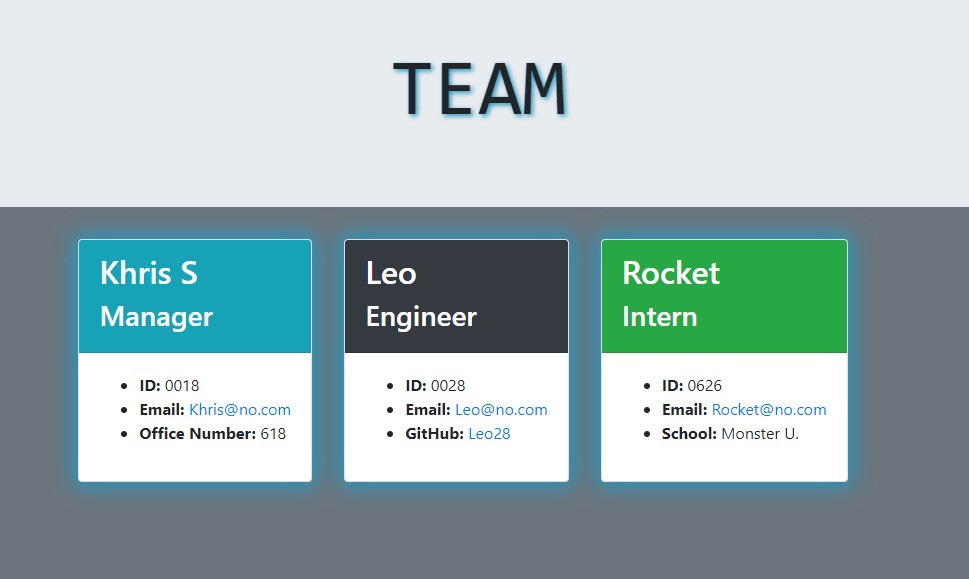
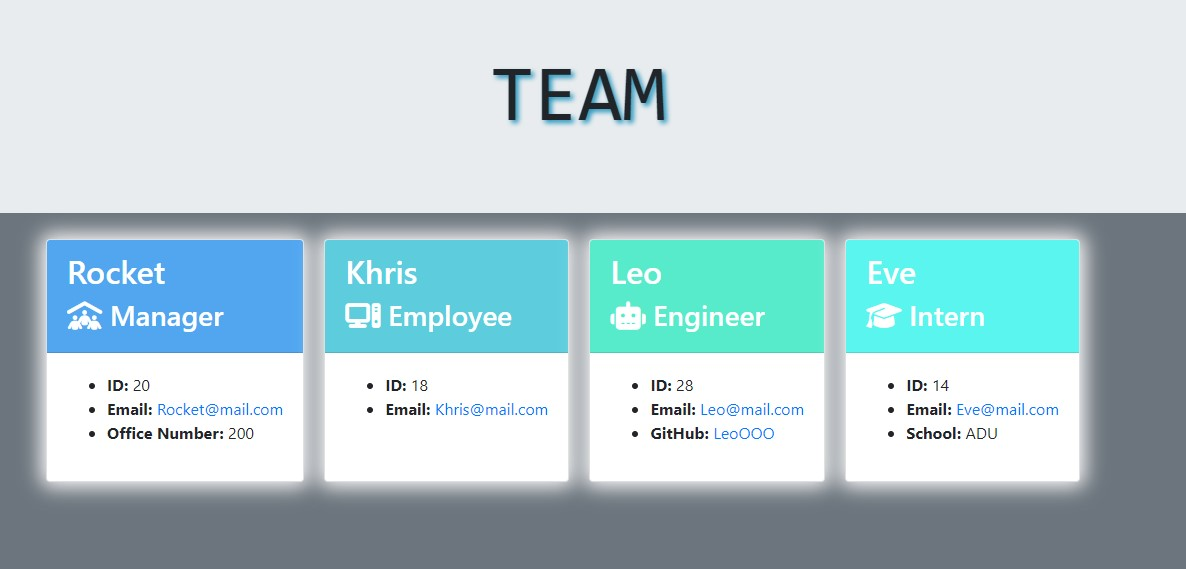
additional fixes

diff --git a/main/dist/team.html b/main/dist/team.html
@@ -23,82 +23,55 @@
                     
         <div class="card">
         <div class="card-header manager-color text-white">
-            <h2>a</h2>
+            <h2>Rocket</h2>
             <h3><i class="fa-solid fa-people-roof"></i> Manager</h3>
         </div>
         <div class="card-body">
             <ul>
-                <li><b>ID: </b>a</li>
-                <li><b>Email: </b><a href="mailto:a">a</a></li>
-                <li><b>Office Number: </b>a</li>
-            </ul>
-        </div>
-    </div>
-      
-        <div class="card">
-        <div class="card-header manager-color text-white">
-            <h2>a</h2>
-            <h3><i class="fa-solid fa-people-roof"></i> Manager</h3>
-        </div>
-        <div class="card-body">
-            <ul>
-                <li><b>ID: </b>a</li>
-                <li><b>Email: </b><a href="mailto:a">a</a></li>
-                <li><b>Office Number: </b>a</li>
+                <li><b>ID: </b>20</li>
+                <li><b>Email: </b><a href="mailto:Rocket@mail.com">Rocket@mail.com</a></li>
+                <li><b>Office Number: </b>200</li>
             </ul>
         </div>
     </div>
       
         <div class="card">
         <div class="card-header employee-color text-white">
-            <h2>a</h2>
+            <h2>Khris</h2>
             <h3><i class="fa-solid fa-computer"></i> Employee</h3>
         </div>
         <div class="card-body">
             <ul>
-                <li><b>ID: </b>a</li>
-                <li><b>Email: </b><a href="mailto:a">a</a></li>
-            </ul>
-        </div>
-    </div>
-      
-        <div class="card">
-        <div class="card-header employee-color text-white">
-            <h2>a</h2>
-            <h3><i class="fa-solid fa-computer"></i> Employee</h3>
-        </div>
-        <div class="card-body">
-            <ul>
-                <li><b>ID: </b>a</li>
-                <li><b>Email: </b><a href="mailto:a">a</a></li>
+                <li><b>ID: </b>18</li>
+                <li><b>Email: </b><a href="mailto:Khris@mail.com">Khris@mail.com</a></li>
             </ul>
         </div>
     </div>
       
         <div class="card">
         <div class="card-header engineer-color text-white">
-            <h2>a</h2>
+            <h2>Leo</h2>
             <h3><i class="fa-solid fa-robot"></i> Engineer</h3>
         </div>
         <div class="card-body">
             <ul>
-                <li><b>ID: </b>a</li>
-                <li><b>Email: </b><a href="mailto:a">a</a></li>
-                <li><b>GitHub: </b><a href="https://github.com/a">a</a></li>
+                <li><b>ID: </b>28</li>
+                <li><b>Email: </b><a href="mailto:Leo@mail.com">Leo@mail.com</a></li>
+                <li><b>GitHub: </b><a href="https://github.com/LeoOOO">LeoOOO</a></li>
             </ul>
         </div>
     </div>
       
         <div class="card">
         <div class="card-header intern-color text-white">
-            <h2>a</h2>
+            <h2>Eve</h2>
             <h3><i class="fa-solid fa-graduation-cap"></i> Intern</h3>
         </div>
         <div class="card-body">
             <ul>
-                <li><b>ID: </b> a</li>
-                <li><b>Email: </b><a href="mailto:a">a</a></li>
-                <li><b>School: </b> a</li>
+                <li><b>ID: </b> 14</li>
+                <li><b>Email: </b><a href="mailto:Eve@mail.com">Eve@mail.com</a></li>
+                <li><b>School: </b> ADU</li>
             </ul>
         </div>
      </div>

diff --git a/README.md b/README.md
@@ -10,6 +10,7 @@ This is an application that helps the user build a working team that includes Ma
 * [Installation](#installation)
 * [Usage](#usage)
 * [Demo](#demo)
+* [Testing](#testing)
 * [Sources](#sources)
 * [License](#license)
 * [Contact](#contact)
@@ -46,26 +47,33 @@ To use the application do the following:
   ![Screenshot of questions](./main/assets/Screenshot%202022-10-27%20182454.jpg)
 <br>
 
-### Demonstration of Deployed Site
+### Demonstration of Deployed Application
 <br>
  
   ![Screenshot of readme file](./main/assets/Screenshot%202022-10-27%20182323.jpg)
 
 <br><br>
 
+## Testing
+  For testing install 'npm i jest' on your terminal. Then type 'npm test' to run the tests.
+  
+![Screenshot of tests](./main/assets/Screenshot%202022-10-28%20163741.jpg)
+
  ## Sources
   
   - [Node.js 16.18.0 LTS](https://nodejs.org/en/)
   - [Inquirer 8.2.4](https://www.npmjs.com/package/inquirer/v/8.2.4)
   - [Bootstrap](https://getbootstrap.com/docs/4.6/getting-started/introduction/)
+  - [Jest](https://www.npmjs.com/package/jest)
 
 
  ## License
  [MIT](https://choosealicense.com/licenses/mit/)
 
 
- ## Links
- [Application Repo](https://github.com/KSoto18/My-Team-Builder)
+ ## Links 
+ - [Application Repo](https://github.com/KSoto18/My-Team-Builder)
+ - [Application Video](https://drive.google.com/file/d/1zUpPhr_H3bfuWJZ5aCoaYBDpFW79hu4D/view)
 
 
 
